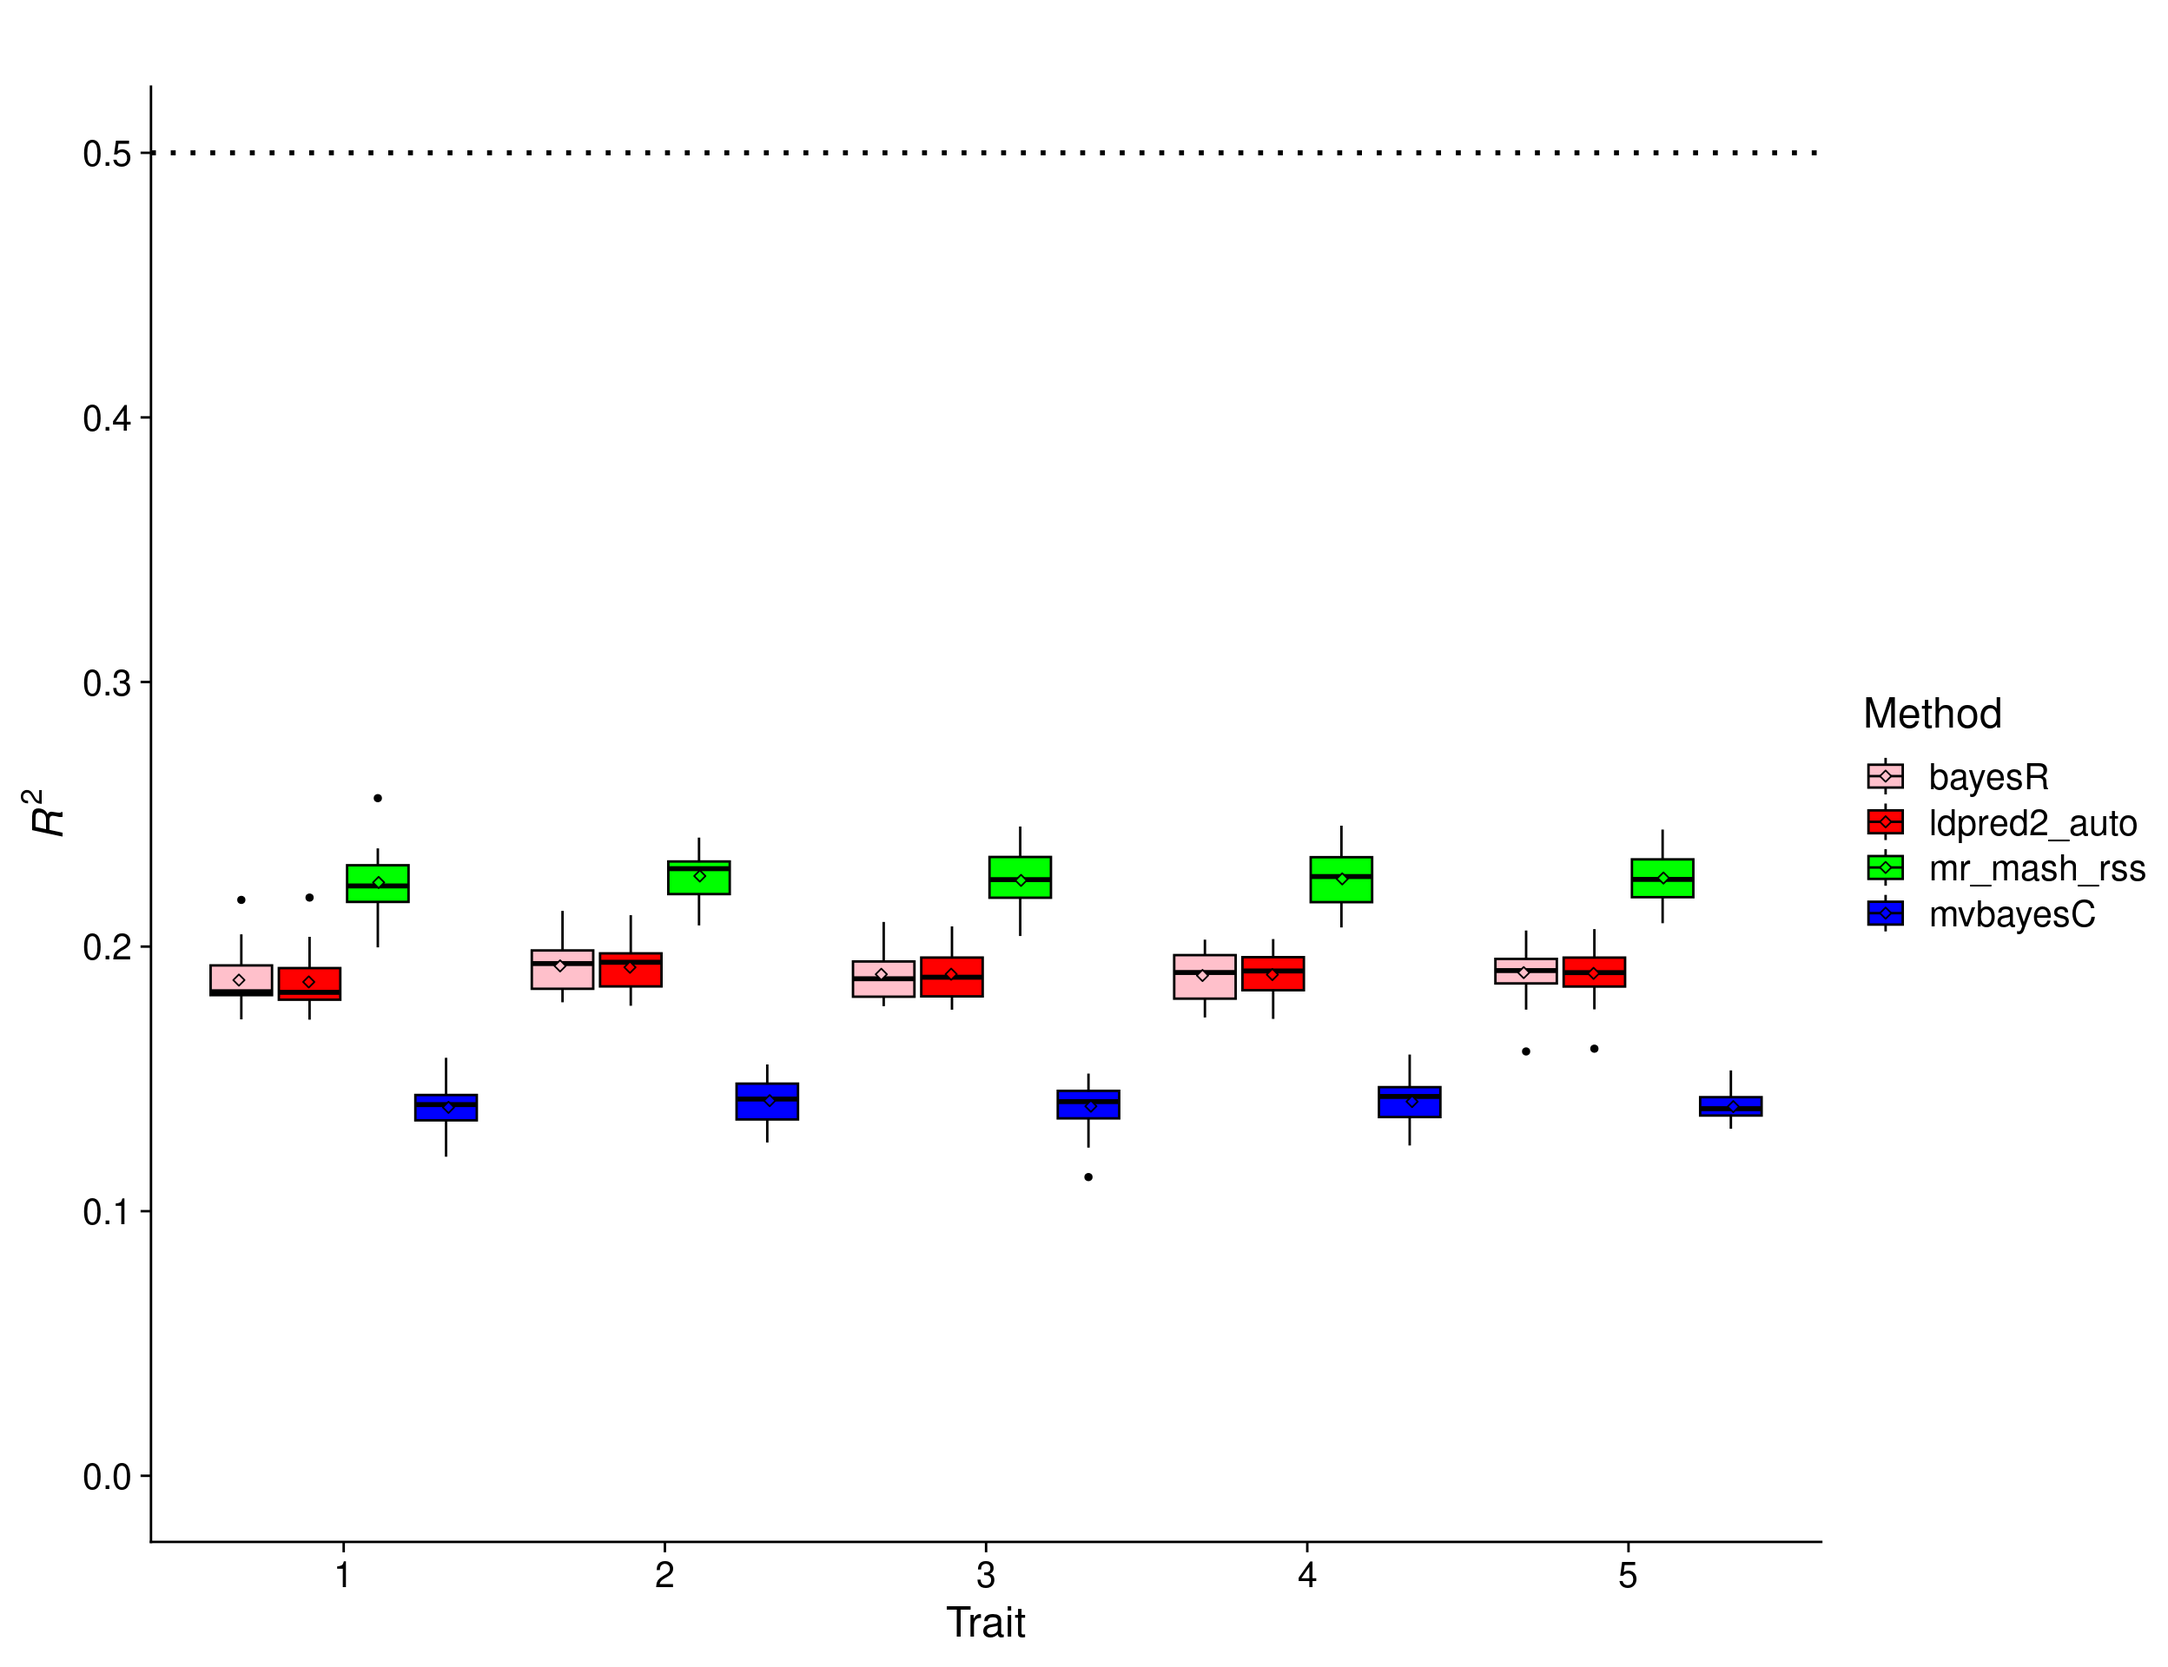
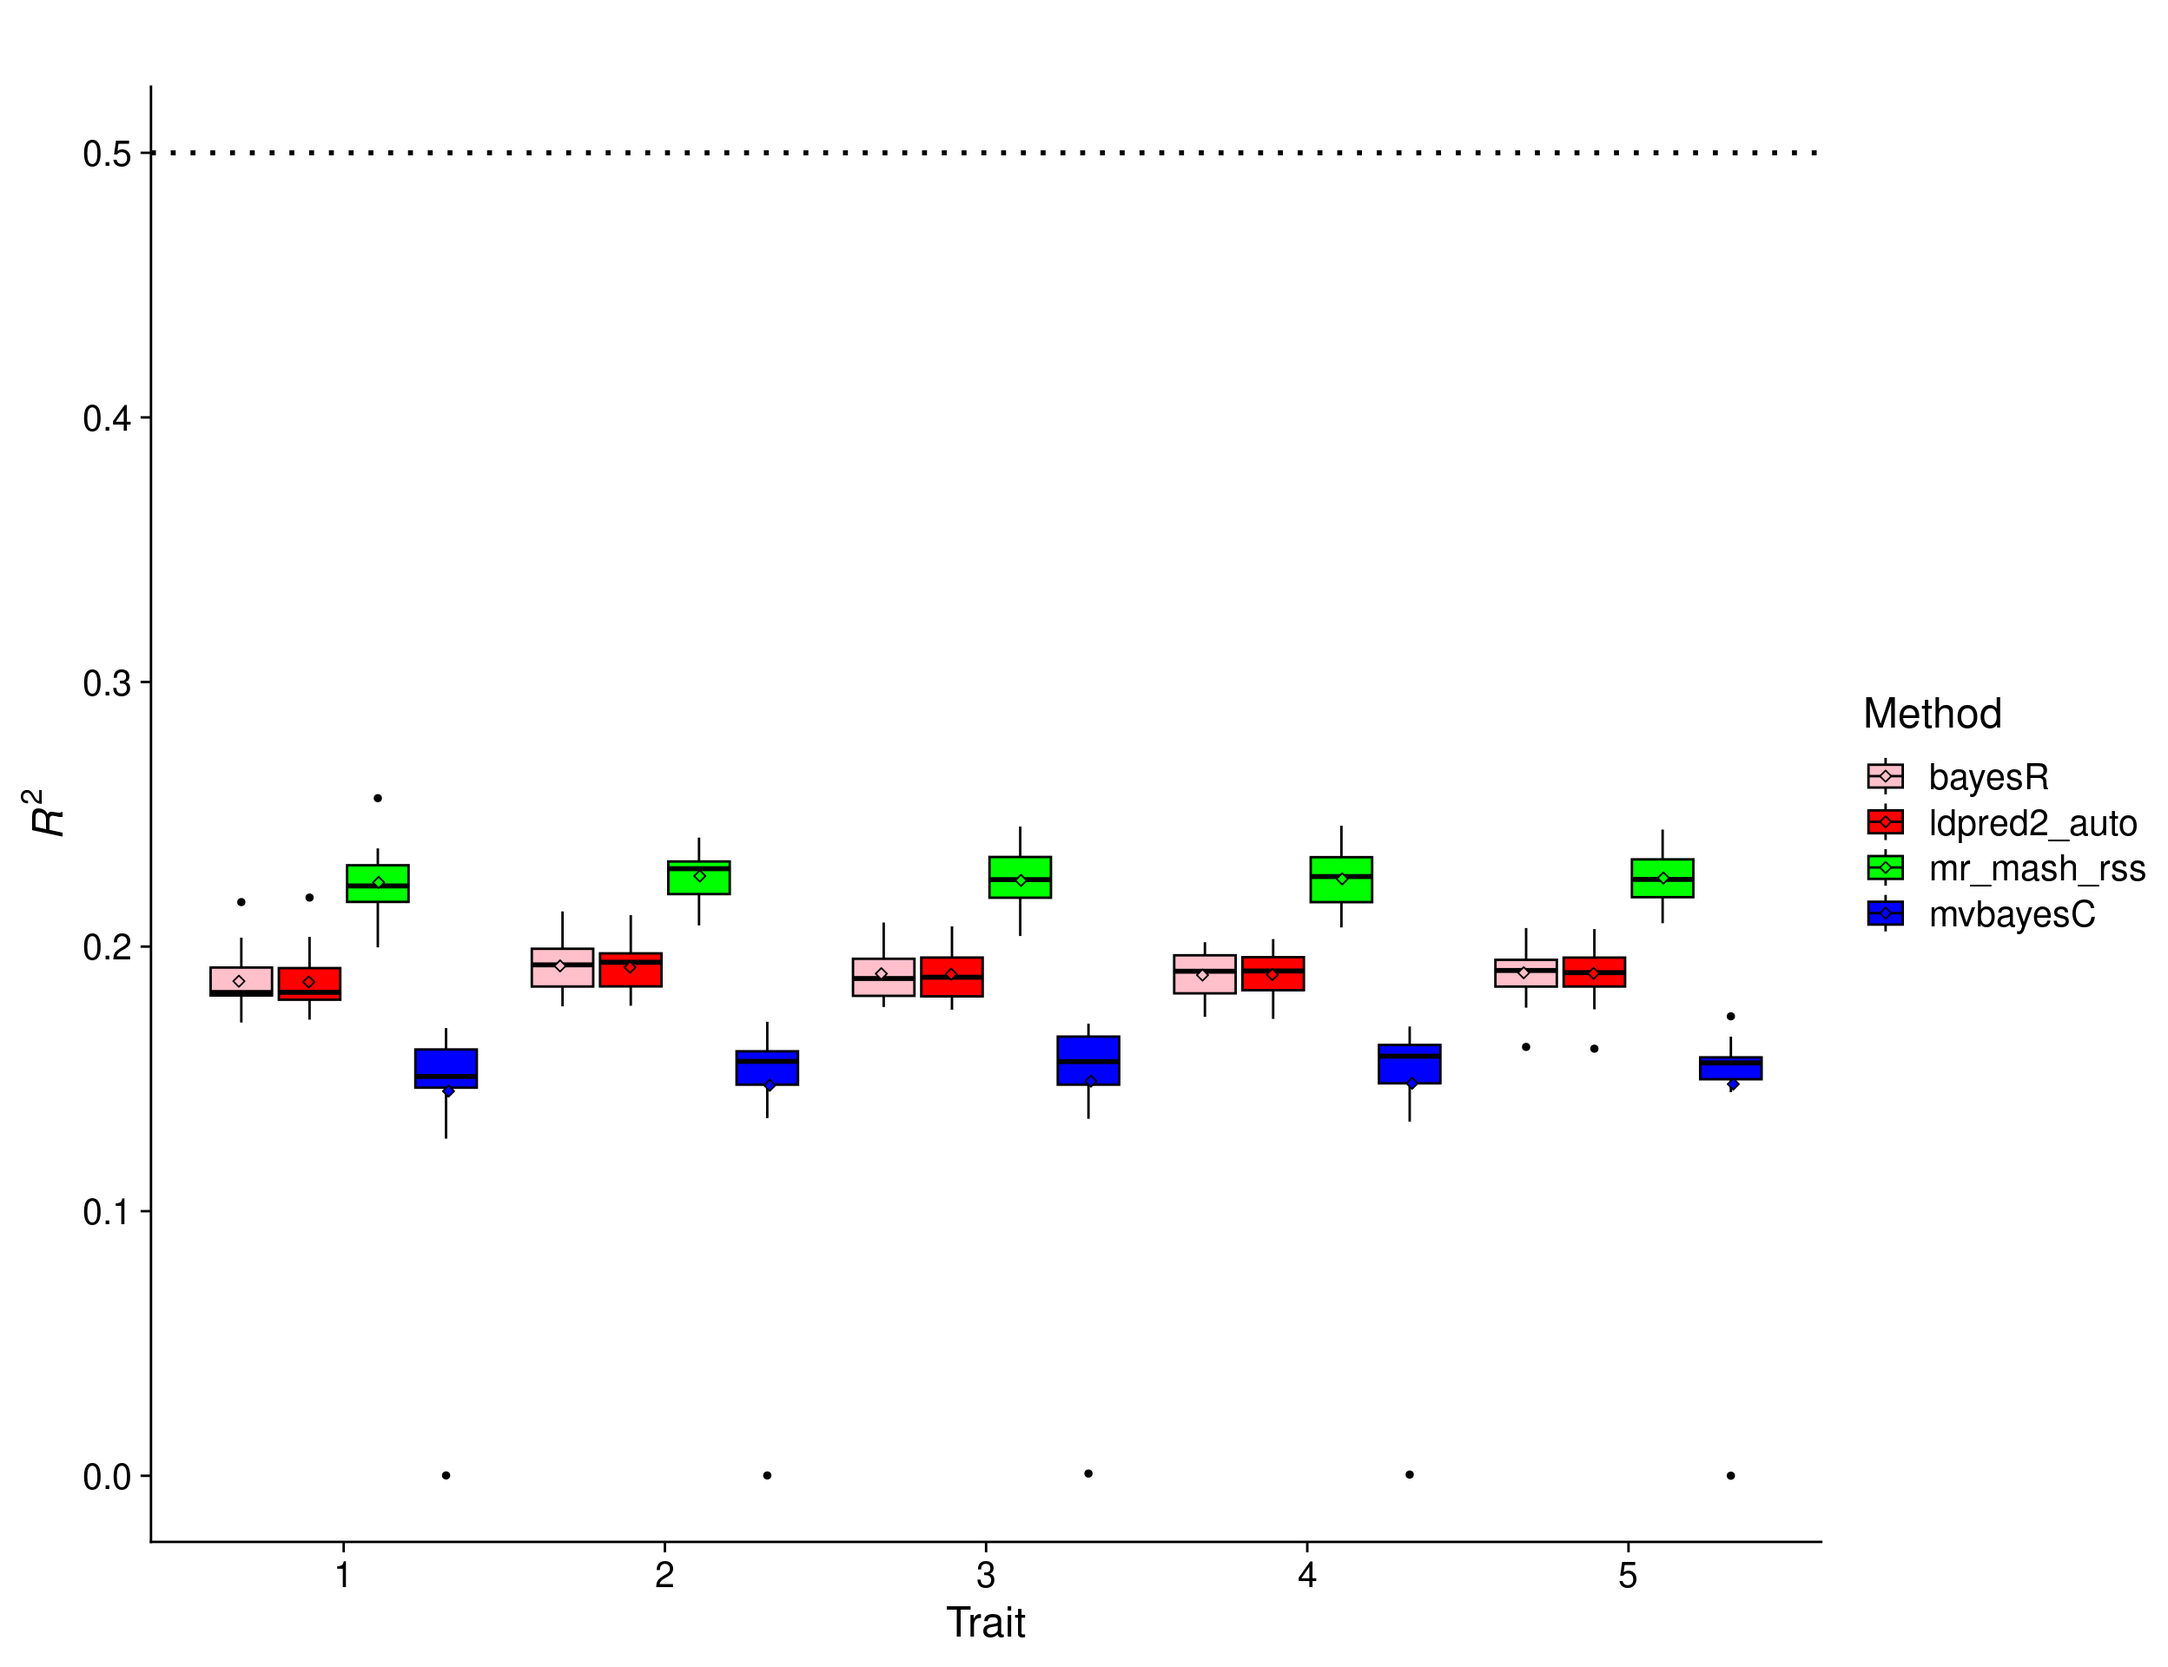
Build site.

diff --git a/docs/ukb_sim_results.html b/docs/ukb_sim_results.html
@@ -11,7 +11,7 @@
 
 <meta name="author" content="Fabio Morgante &amp; Deborah Kunkel" />
 
-<meta name="date" content="2023-11-20" />
+<meta name="date" content="2023-11-21" />
 
 <title>Simulations with UK Biobank genotypes and different effect structure across traits</title>
 
@@ -374,7 +374,7 @@ div.tocify {
 <h1 class="title toc-ignore">Simulations with UK Biobank genotypes and
 different effect structure across traits</h1>
 <h4 class="author">Fabio Morgante &amp; Deborah Kunkel</h4>
-<h4 class="date">November 20, 2023</h4>
+<h4 class="date">November 21, 2023</h4>
 
 </div>
 
@@ -403,7 +403,7 @@ class="glyphicon glyphicon-ok text-success" aria-hidden="true"></span>
 <div class="tab-content">
 <div id="summary" class="tab-pane fade in active">
 <p>
-<strong>Last updated:</strong> 2023-11-20
+<strong>Last updated:</strong> 2023-11-21
 </p>
 <p>
 <strong>Checks:</strong> <span
@@ -534,15 +534,15 @@ project makes it easier to run your code on other machines.</p>
 <div class="panel panel-default">
 <div class="panel-heading">
 <p class="panel-title">
-<a data-toggle="collapse" data-parent="#workflowr-checks" href="#strongRepositoryversionstrongahrefhttpsgithubcommorgantelabmrmashrssanalysistreeee794b52ba7df8936adf64d00fc3a7d660ded95atargetblankee794b5a">
+<a data-toggle="collapse" data-parent="#workflowr-checks" href="#strongRepositoryversionstrongahrefhttpsgithubcommorgantelabmrmashrssanalysistree1c76577d0bc74dfd41806836a11c6654330b7093targetblank1c76577a">
 <span class="glyphicon glyphicon-ok text-success"
 aria-hidden="true"></span> <strong>Repository version:</strong>
-<a href="https://github.com/morgantelab/mr_mash_rss_analysis/tree/ee794b52ba7df8936adf64d00fc3a7d660ded95a" target="_blank">ee794b5</a>
+<a href="https://github.com/morgantelab/mr_mash_rss_analysis/tree/1c76577d0bc74dfd41806836a11c6654330b7093" target="_blank">1c76577</a>
 </a>
 </p>
 </div>
 <div
[2 lines of base64/hex data omitted]
 class="panel-collapse collapse">
 <div class="panel-body">
 <p>
@@ -552,7 +552,7 @@ reproducibility.
 </p>
 <p>
 The results in this page were generated with repository version
-<a href="https://github.com/morgantelab/mr_mash_rss_analysis/tree/ee794b52ba7df8936adf64d00fc3a7d660ded95a" target="_blank">ee794b5</a>.
+<a href="https://github.com/morgantelab/mr_mash_rss_analysis/tree/1c76577d0bc74dfd41806836a11c6654330b7093" target="_blank">1c76577</a>.
 See the <em>Past versions</em> tab to see a history of the changes made
 to the R Markdown and HTML files.
 </p>
@@ -593,7 +593,6 @@ Untracked files:
 
 Unstaged changes:
     Modified:   code/compute_prediction_accuracy_bc_ukb.R
-    Modified:   ukb_sim_snakefile
     Modified:   ukb_sim_snakemake_submitter.sh
 
 </code></pre>
@@ -640,6 +639,40 @@ Message
 </tr>
 </thead>
 <tbody>
+<tr>
+<td>
+Rmd
+</td>
+<td>
+<a href="https://github.com/morgantelab/mr_mash_rss_analysis/blob/1c76577d0bc74dfd41806836a11c6654330b7093/analysis/ukb_sim_results.Rmd" target="_blank">1c76577</a>
+</td>
+<td>
+fmorgante
+</td>
+<td>
+2023-11-21
+</td>
+<td>
+Update results and description
+</td>
+</tr>
+<tr>
+<td>
+html
+</td>
+<td>
+<a href="https://rawcdn.githack.com/morgantelab/mr_mash_rss_analysis/f8b39f9224c280b313111a24f9b9226c782c9ce0/docs/ukb_sim_results.html" target="_blank">f8b39f9</a>
+</td>
+<td>
+fmorgante
+</td>
+<td>
+2023-11-20
+</td>
+<td>
+Build site.
+</td>
+</tr>
 <tr>
 <td>
 Rmd
@@ -2686,7 +2719,8 @@ distribution with mean vector 0 and covariance matrix that achieves a
 per-trait variance of 1 and a correlation across traits of 1. This
 implies that the effects of the causal variants are equal across
 responses. In addition, the per-trait genomic heritability was set to
-0.2.</p>
+0.2. In this scenario, <span class="math inline">\(h^2\)</span> was
+initialized as 0.01 in <em>BayesR</em> and <em>mvBayesC</em>.</p>
 <pre class="r"><code>scenarioz &lt;- &quot;equal_effects_low_pve_indep_resid&quot;
 methodz &lt;- c(&quot;mr_mash_rss&quot;, &quot;mvbayesC&quot;, &quot;ldpred2_auto&quot;, &quot;bayesR&quot;)
 
@@ -2840,8 +2874,9 @@ that the multivariate methods outperform the univariate methods, with
 distribution with mean vector 0 and covariance matrix that achieves a
 per-trait variance of 1 and a correlation across traits of 1. This
 implies that the effects of the causal variants are equal across
-responses. In addition, the number of causal variants was set to
-50,000.</p>
+responses. In addition, the number of causal variants was set to 50,000.
+In this scenario, <span class="math inline">\(\pi\)</span> was
+initialized as 0.001 in <em>BayesR</em> and <em>mvBayesC</em>.</p>
 <pre class="r"><code>scenarioz &lt;- &quot;equal_effects_50000causal_indep_resid&quot;
 methodz &lt;- c(&quot;mr_mash_rss&quot;, &quot;mvbayesC&quot;, &quot;ldpred2_auto&quot;, &quot;bayesR&quot;)
 
@@ -3045,6 +3080,17 @@ Date
 </tr>
 </thead>
 <tbody>
+<tr>
+<td>
+<a href="https://github.com/morgantelab/mr_mash_rss_analysis/blob/f8b39f9224c280b313111a24f9b9226c782c9ce0/docs/figure/ukb_sim_results.Rmd/equal effects 10 traits-1.png" target="_blank">f8b39f9</a>
+</td>
+<td>
+fmorgante
+</td>
+<td>
+2023-11-20
+</td>
+</tr>
 <tr>
 <td>
 <a href="https://github.com/morgantelab/mr_mash_rss_analysis/blob/5e2df385e1d527c3db2f99e4481d5f8806469f24/docs/figure/ukb_sim_results.Rmd/equal effects 10 traits-1.png" target="_blank">5e2df38</a>
